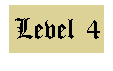
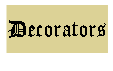
changed name sprites on game menu | added decorators + recursion challenges | added a line in quizz app to display the code separately from the question

Changed region(s): [[0.0531, 0.0563, 0.9558, 0.7606]]

diff --git a/level_menu.py b/level_menu.py
@@ -174,8 +174,8 @@ notice_boards = [
     NoticeBoard(385, 382, "lvl1", notice_board_sprite, single_notice_sprite1),
     NoticeBoard(900, 382, "lvl2", notice_board_sprite, single_notice_sprite2),
     NoticeBoard(1375, 311, "lvl3", notice_board_sprite, single_notice_sprite3),
-    NoticeBoard(480, 864, "lvl4", notice_board_sprite, single_notice_sprite4),
-    NoticeBoard(925, 760, "lvl5", notice_board_sprite, single_notice_sprite5)
+    NoticeBoard(480, 864, "decorators", notice_board_sprite, single_notice_sprite4),
+    NoticeBoard(925, 760, "recursive-functions", notice_board_sprite, single_notice_sprite5)
 ]
 
 notice_board_positions = [(board.x, board.y) for board in notice_boards]    # Get the positions of each notice board

diff --git a/quizz_app.py b/quizz_app.py
@@ -101,8 +101,9 @@ class QuizApp(ctk.CTk):
     def set_question(self, question_index):
         question = self.quiz_questions[question_index]
         self.code_editor.delete("0.0", "end")
-        self.code_editor.insert("0.0", question["question"])
-        self.correct_output = question["output"]
+        self.code_editor.insert("0.0", question["question"])        # add the question field to left window
+        self.code_editor.insert("end", "\n\n" + question["code"])   # add the code field to left window
+        self.correct_output = question["output"]                    # import the expected output
 
     def run_code(self):
         # Get the user's code from the Text widget

diff --git a/solutions.py b/solutions.py
@@ -1,0 +1,13 @@
+# recursive 3
+def print_with_o_upper(txt, index=0):
+    if index == len(txt):
+        return
+    else:
+        if txt[index] == 'o':
+            print(txt[index].upper(), end='')
+        else:
+            print(txt[index], end='')
+        print_with_o_upper(txt, index + 1)
+
+txt = "Look, good code is almost like a good song"
+print_with_o_upper(txt)
